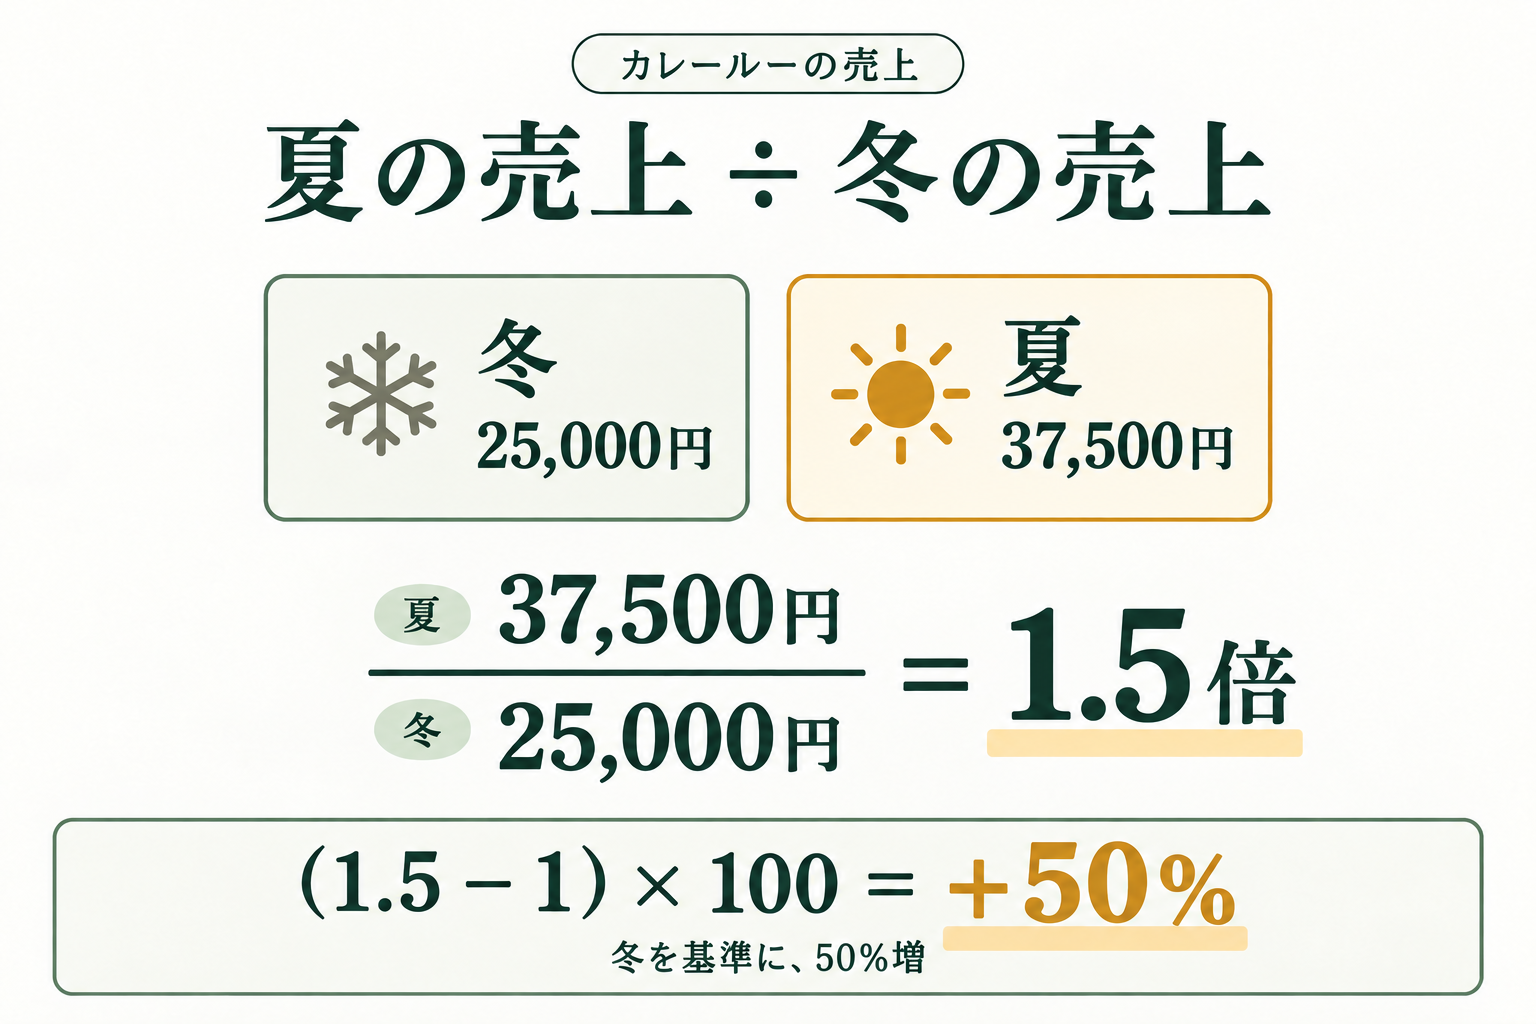
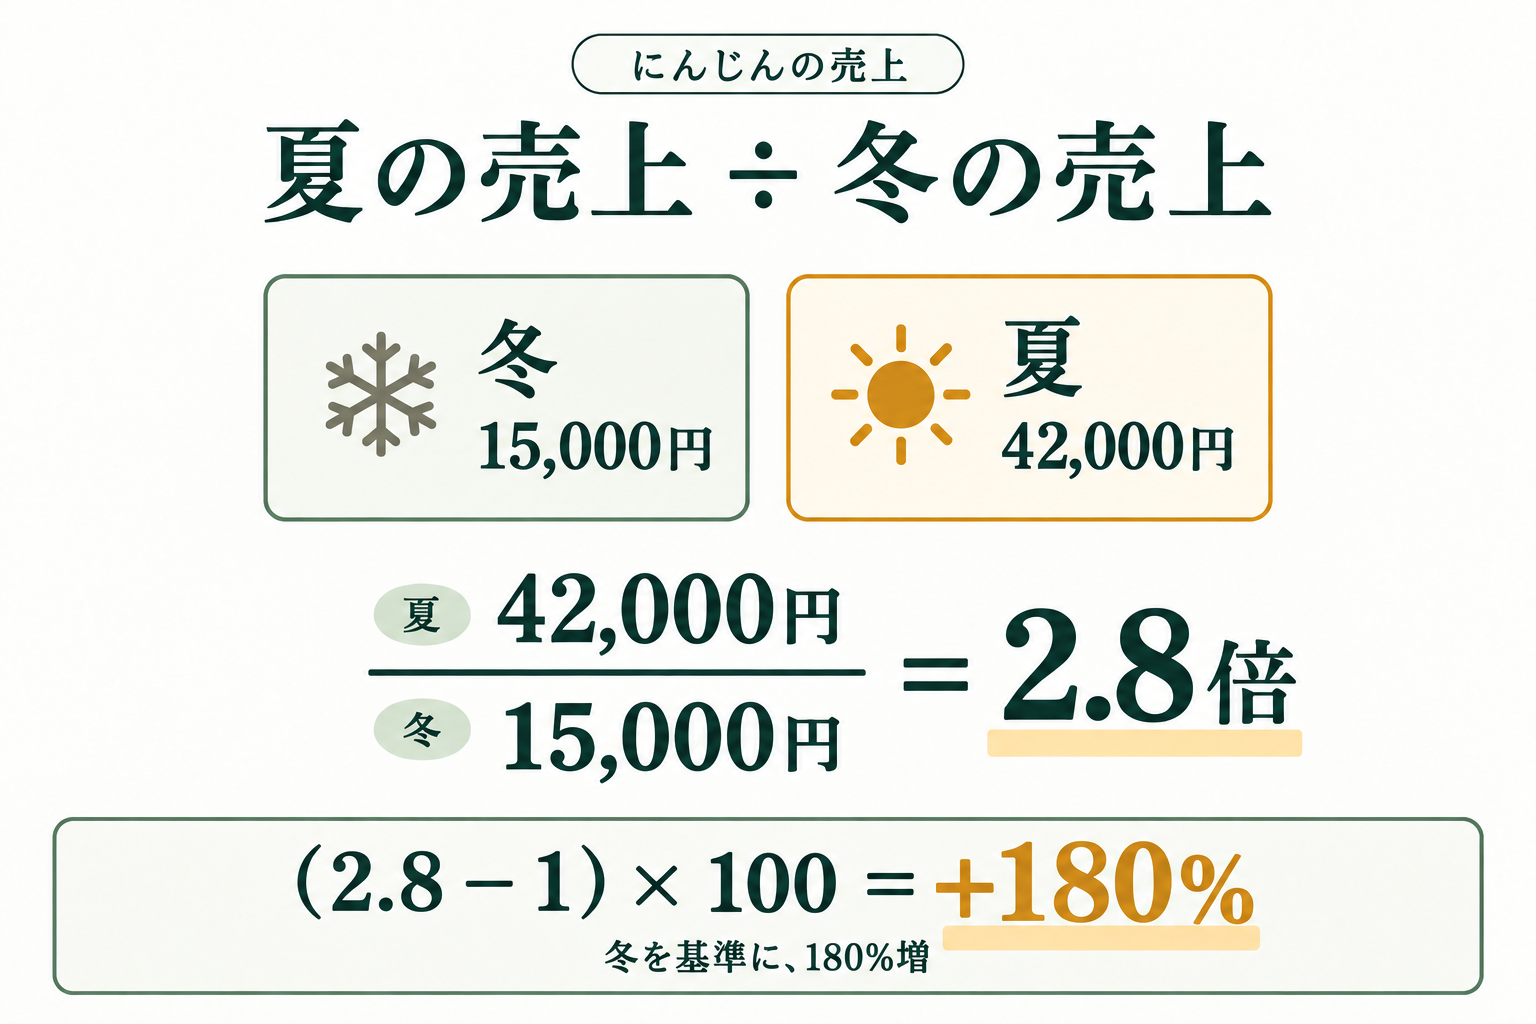
序論とRNA-seq解説を更新し教材注釈を整理

diff --git a/src/components/VolcanoLab.tsx b/src/components/VolcanoLab.tsx
@@ -38,8 +38,7 @@ export default function VolcanoLab() {
     rowRefs.current.get(id)?.scrollIntoView({ block: 'nearest', behavior: 'instant' });
   };
   return <div className="lab volcano-lab">
-    <div className="lab-heading"><h3>遺伝子の表とボルケーノプロット</h3><span className="data-badge">人工データ · 全48遺伝子</span></div>
-    <p className="lab-intro">TreatとControlの比較。Gene01〜48は架空の遺伝子です。原論文のshCaN実験ではありません。</p>
+    <div className="lab-heading"><h3>遺伝子の表とボルケーノプロット</h3></div>
     <div className="plot-legend"><span><b className="volcano-mark status-decrease">●</b> Treatで減少</span><span><b className="volcano-mark status-increase">●</b> Treatで増加</span><span><b className="volcano-mark status-other">○</b> 基準外</span></div>
     <p className="plot-threshold">塗りつぶした点は、調整済みp値が0.05未満、かつ|log₂ FC|が1以上の遺伝子を示します。</p>
     <svg className={`volcano-chart ${compact ? 'compact-chart' : 'wide-chart'}`} viewBox={`0 0 ${plotWidth} 330`} role="group" aria-label="48遺伝子のボルケーノプロット。点はキーボードまたは表からも選択できます。">
@@ -66,7 +65,7 @@ export default function VolcanoLab() {
       <div className="gene-detail" aria-live="polite" aria-atomic="true"><span className="lab-index">選択中の遺伝子</span><h4>{selected.id}</h4><p><span className={`volcano-mark status-${selectedStatus}`} aria-hidden="true">{selectedStatus === 'other' ? '○' : '●'}</span> {statusLabels[selectedStatus]}</p><dl><div><dt>log₂ fold change</dt><dd>{signed(selected.log2fc)}</dd></div><div><dt>Treat / Control</dt><dd>{(2 ** selected.log2fc).toFixed(2)} 倍</dd></div><div><dt>調整済みp値（BH）</dt><dd>{format(selected.padj)}</dd></div></dl></div>
     </div>
     <div className="lab-foot"><p>発現量の変化だけでは、原因や働きまでは分かりません。</p>
-      <details><summary>人工データの生成条件と計算方法</summary><p>全48遺伝子、ControlとTreatを各6反復。独立な正規乱数を整数に丸め、1未満は1とした任意単位の模擬発現量です。乱数シードは20261023。基準量は80〜200、標準偏差は基準量の0.12 / 0.25 / 0.45 / 0.65倍。Treatの期待値は、最初の24遺伝子では基準量×2のe乗（e = −1.6 + (0始まりの番号 mod 12)×0.29）、残りはe = (番号 mod 5 − 2)×0.07です。</p><p>横軸は反復平均の比のlog₂。p値は12個の値を6対6に分ける全924通りの、平均差の絶対値を使った両側の正確置換検定から計算し、全48検定をBH法で調整しています。ライブラリサイズの正規化やRNA-seq特有の分布を扱う解析ではなく、統計的な指標を読むための簡略例です。実データの解析には、その実験に合った手法が必要です。</p><p>選択中の{selected.id}：Control [{selected.control.join(', ')}]、Treat [{selected.treated.join(', ')}]。</p></details>
+      <details><summary>データの生成条件と計算方法</summary><p>全48遺伝子、ControlとTreatを各6反復。独立な正規乱数を整数に丸め、1未満は1とした任意単位の模擬発現量です。乱数シードは20261023。基準量は80〜200、標準偏差は基準量の0.12 / 0.25 / 0.45 / 0.65倍。Treatの期待値は、最初の24遺伝子では基準量×2のe乗（e = −1.6 + (0始まりの番号 mod 12)×0.29）、残りはe = (番号 mod 5 − 2)×0.07です。</p><p>横軸は反復平均の比のlog₂。p値は12個の値を6対6に分ける全924通りの、平均差の絶対値を使った両側の正確置換検定から計算し、全48検定をBH法で調整しています。ライブラリサイズの正規化やRNA-seq特有の分布を扱う解析ではなく、統計的な指標を読むための簡略例です。実データの解析には、その実験に合った手法が必要です。</p><p>選択中の{selected.id}：Control [{selected.control.join(', ')}]、Treat [{selected.treated.join(', ')}]。</p></details>
     </div>
   </div>;
 }

diff --git a/src/components/CurryEnrichment.tsx b/src/components/CurryEnrichment.tsx
@@ -26,7 +26,7 @@ export default function CurryEnrichment() {
     <div className="curry-chart-scroll">
       <svg viewBox="0 0 720 430" role="img" aria-labelledby="curry-es-title curry-es-desc">
         <title id="curry-es-title">カレーの材料は順位の上位に集まる</title>
-        <desc id="curry-es-desc">夏を冬で割った売上比の大きい順に121商品を並べた図。材料11品の位置を茶色の棒で示す。材料で11分の1上がり、材料以外で110分の1下がる曲線は、35位でES約プラス0.78となり、121位で0に戻る。</desc>
+        <desc id="curry-es-desc">夏を冬で割った売上比の大きい順に121商品を並べた図。材料11品の位置を茶色の棒で示す。材料で11分の1上がり、材料以外で110分の1下がる曲線は、34位でES約プラス0.69となり、121位で0に戻る。</desc>
         <text x="60" y="27">累積スコア（running ES）</text>
         {[-1, 0, 1].map(value => <g key={value}>
           <line x1="60" x2="660" y1={y(value)} y2={y(value)} className={value === 0 ? 'curry-zero-line' : 'curry-grid-line'} />
@@ -42,7 +42,7 @@ export default function CurryEnrichment() {
           const hit = members.has(product.id);
           return <rect key={product.id} x={x(index + 1) - 2} y={hit ? 320 : 328} width="3.5" height={hit ? 32 : 16} rx=".5" fill={hit ? '#a86130' : '#d4ddd1'}><title>{`${index + 1}位：${product.name}${hit ? '（カレーの材料）' : ''}`}</title></rect>;
         })}
-        {[1, 35, 60, 90, ranked.length].map(rank => <text key={rank} x={x(rank)} y="377" textAnchor="middle">{rank}</text>)}
+        {[1, peakRank, 60, 90, ranked.length].map(rank => <text key={rank} x={x(rank)} y="377" textAnchor="middle">{rank}</text>)}
         <text x="60" y="413">夏 ÷ 冬が大きい</text><text x="660" y="413" textAnchor="end">夏 ÷ 冬が小さい</text>
       </svg>
     </div>

diff --git a/tests/market.test.ts b/tests/market.test.ts
@@ -15,6 +15,8 @@ test('冬と夏の121商品の売上金額を円で保持する', () => {
   assert.equal(curry.ids.length, 11);
   assert.deepEqual(['curry', 'onion', 'potato', 'carrot'].map(id => change(products.find(p => p.id === id)!)), [50, 80, 120, 180]);
   assert.deepEqual(products.find(p => p.id === 'curry'), { id: 'curry', name: 'カレールー', winter: 25000, summer: 37500 });
+  assert.deepEqual(products.find(p => p.id === 'rice'), { id: 'rice', name: '米', winter: 640000, summer: 672000 });
+  assert.equal(change(products.find(p => p.id === 'rice')!), 5);
   assert.equal(change(products.find(p => p.id === 'milk')!), 5);
   assert.equal(change(products.find(p => p.id === 'bread')!), -5);
 });
@@ -28,7 +30,7 @@ test('元データを変更せず並べ替え、一覧順に戻せる', () => {
   const ranked = rankProducts('desc');
   assert.ok(ranked.every((product, index) => index === 0 || foldChange(ranked[index - 1]) >= foldChange(product)));
   assert.equal(ranked.filter(product => curryRecipe.ids.includes(product.id)).length, 11);
-  assert.ok(ranked.slice(0, 40).filter(product => curryRecipe.ids.includes(product.id)).length === 11);
+  assert.equal(ranked.slice(0, 34).filter(product => curryRecipe.ids.includes(product.id)).length, 10);
 });
 
 test('レシピの材料は売上表に存在し、複数のレシピに同じ材料を使える', () => {

diff --git a/tests/enrichment.test.ts b/tests/enrichment.test.ts
@@ -45,14 +45,15 @@ test('模式セットAは左に濃縮し、曲線は山から谷を通って0に
 });
 
 
-test('カレーの解説図は序論の全商品を使い、35位でESが最大になる', () => {
+test('カレーの解説図は序論の全商品を使い、34位でESが最大になる', () => {
   const ranked = rankProducts('desc');
   const scores = runningScores(ranked, curryRecipe.ids);
   assert.equal(ranked.length, 121);
   assert.equal(curryRecipe.ids.length, 11);
   const peak = Math.max(...scores);
-  assert.equal(scores.indexOf(peak), 35);
-  assert.ok(Math.abs(peak - (11 / 11 - 24 / 110)) < 1e-10);
+  assert.equal(scores.indexOf(peak), 34);
+  assert.ok(Math.abs(peak - (10 / 11 - 24 / 110)) < 1e-10);
+  assert.equal(ranked.findIndex(product => product.id === 'rice') + 1, 64);
   assert.equal(scores.at(-1), 0);
   ranked.forEach((product, index) => {
     const expected = curryRecipe.ids.includes(product.id) ? 1 / 11 : -1 / 110;

diff --git a/src/components/GeneRankLab.tsx b/src/components/GeneRankLab.tsx
@@ -48,7 +48,7 @@ export default function GeneRankLab() {
   const reset = () => { setRunning(false); setStep(0); };
 
   return <div className="lab gene-rank-lab">
-    <div className="lab-heading"><h3>遺伝子の順位とセットA</h3><span className="data-badge">人工データ · 全{total}遺伝子</span></div>
+    <div className="lab-heading"><h3>遺伝子の順位とセットA</h3></div>
     <div className="ranking-body">
       {/* eslint-disable-next-line jsx-a11y/no-noninteractive-tabindex */}
       <div ref={tableRef} className="table-scroll market-table count-table" tabIndex={0} role="region" aria-label="全48遺伝子の順位とセット所属">

diff --git a/src/components/MarketLab.tsx b/src/components/MarketLab.tsx
@@ -10,7 +10,7 @@ export default function MarketLab({ children }: { children: ReactNode }) {
 
   return <>
     <div className="lab market-lab">
-      <div className="lab-heading"><h3>冬と夏の売上金額</h3><span className="data-badge">架空データ · 全{products.length}商品</span></div>
+      <div className="lab-heading"><h3>冬と夏の売上金額</h3></div>
       <div className="market-body market-sales"><MarketSalesTable view={{ kind: 'raw' }} /></div>
     </div>
 

diff --git a/src/data/market.ts b/src/data/market.ts
@@ -1,6 +1,6 @@
 // 同じ店舗の各30日間の架空の売上金額。単位は円。
 export const products = [
-  { id: 'rice', name: '米', winter: 640000, summer: 972800 },
+  { id: 'rice', name: '米', winter: 640000, summer: 672000 },
   { id: 'bread', name: '食パン', winter: 72000, summer: 68400 },
   { id: 'pasta', name: 'パスタ', winter: 36000, summer: 39600 },
   { id: 'udon', name: 'うどん', winter: 36000, summer: 32400 },
